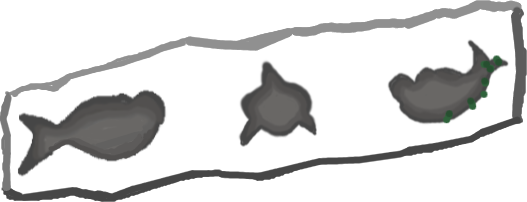
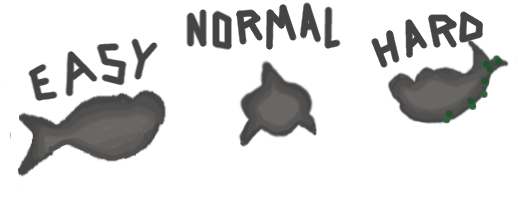
Adding styling, and instructions

Changed region(s): [[0.0, 0.0, 1.0, 1.0], [0.7894, 0.5941, 0.8197, 0.6238]]

diff --git a/src/components/App.css b/src/components/App.css
@@ -2,49 +2,65 @@
   display: grid;
   margin: 0em;
   grid-template-columns: 1fr auto 1fr;
-  grid-template-rows: auto auto 12em;
+  grid-template-rows: auto 700px 12em;
   grid-template-areas:
-  "topBar topBar topBar"
+  
   "game game-desc game-desc"
   ". . .";
   background-image: url("/assets/images/backgrounds/arcade.png");
  background-attachment: fixed;
   
 }
-
+/* this targets the logo */
 .full-height {
 	
 	
-	position: relative;
-z-index: 10;
-	height: 400px;
+padding: 50px;
+  
+  height: 200px;
+  opacity: 5;
+
 }
 
-#top-bar {
+/* #top-bar {
   border: 1px solid;
-  padding: 25px;
+ 
   grid-area: topBar;
-  height: 200px;
+  height: 50px;
   
-}
+} */
 
 #game-container {
-  border: 1px solid red;
+  margin: 15px;
   grid-area: game;
-  position: relative;
+  height: 800px;
   justify-content: center;
+  background-image: url("/assets/images/backgrounds/screen.png");
+background-size: cover;
  
 }
 #game-container canvas {
+width: 800px !important;
+height: 600px !important;
+  
+padding: 100px;
 
-  border: 50px solid rgb(27, 27, 27);
-
+  /* border: 50px solid rgb(27, 27, 27); */
+  /* background-image: url("/assets/images/backgrounds/arcade.png"); */
   /* box-shadow: [horizontal offset] [vertical offset] [blur radius] [optional spread radius] [color]; */
   
 }
 #game-desc {
-  border: 1px solid blue;
+ 
   grid-area: 'game-desc';
-  
-  
+  /* background-image: url("/assets/images/backgrounds/screen.png");
+  background-size: cover; */
+}
+
+html ,body {
+  width: 100%;
+  height: 100%;
+  margin: 0px;
+  padding: 0px;
+  overflow-x: hidden;
 }

diff --git a/src/components/GameDesc.js b/src/components/GameDesc.js
@@ -4,12 +4,12 @@ import "./GameDesc.css";
 const GameDesc = () => {
   return (
     <article id="game-desc">
+      <img class='full-height' src="/assets/images/backgrounds/logo.png" alt=""/>
+      
       <h1>"Lorem ipsum dolor sit amet, consectetur adipiscing elit, sed 
         do eiusmod tempor incididunt ut labore et dolore magna aliqua. Ut enim ad minim veniam, 
-        quis nostrud exercitation ullamco laboris nisi ut aliquip ex ea commodo consequat. Duis a
-        ute irure dolor in reprehenderit in voluptate velit esse cillum dolore eu fugiat nulla paria
-        tur. Excepteur sint occaecat cupidatat non proident, sunt in culpa qui officia deserunt mollit 
-        anim id est laborum."</h1>
+        quis nostrud "</h1>
+        <img class='controls' src="/assets/images/backgrounds/controls.png" alt=""/>
     </article>
   );
 };

diff --git a/public/index.html b/public/index.html
@@ -3,7 +3,7 @@
   <head>
     <meta charset="utf-8" />
     <link rel="icon" href="%PUBLIC_URL%/favicon.ico" />
-    <meta name="viewport" content="width=device-width, initial-scale=1" />
+    <meta name="viewort" content="width=device-width, initial-scale=1" />
     <meta name="theme-color" content="#000000" />
     <meta
       name="description"

diff --git a/src/components/TopBar.js b/src/components/TopBar.js
@@ -4,7 +4,8 @@ import "./TopBar.css"
 export default function TopBar() {
   return (
     <article id="top-bar" >
-    <img class='full-height' src="/assets/images/backgrounds/logo.png" alt=""/>
+    {/* <img class='full-height' src="/assets/images/backgrounds/logo.png" alt=""/> */}
   </article>
   );
 }
+

diff --git a/src/components/GameDesc.css b/src/components/GameDesc.css
@@ -2,7 +2,7 @@
   
   margin: 2em 0em;
   inset: rgb(0, 0, 0);
-  
+  background-image: url("");
   
 }
 
@@ -13,4 +13,10 @@
   border-radius: 10px;
   box-shadow: 2px 2px 15px #5f5f5f65;
   color: rgba(255, 255, 255, 0.658);
+}
+
+.controls {
+padding: 25px;
+  width: 75%;
+
 }

diff --git a/src/components/TopBar.css b/src/components/TopBar.css
@@ -10,7 +10,7 @@
   justify-content: center;
 }
 
-#top-bar img {
+/* #top-bar img {
   grid-area: content;
   margin: 0em;
-}
+} */
